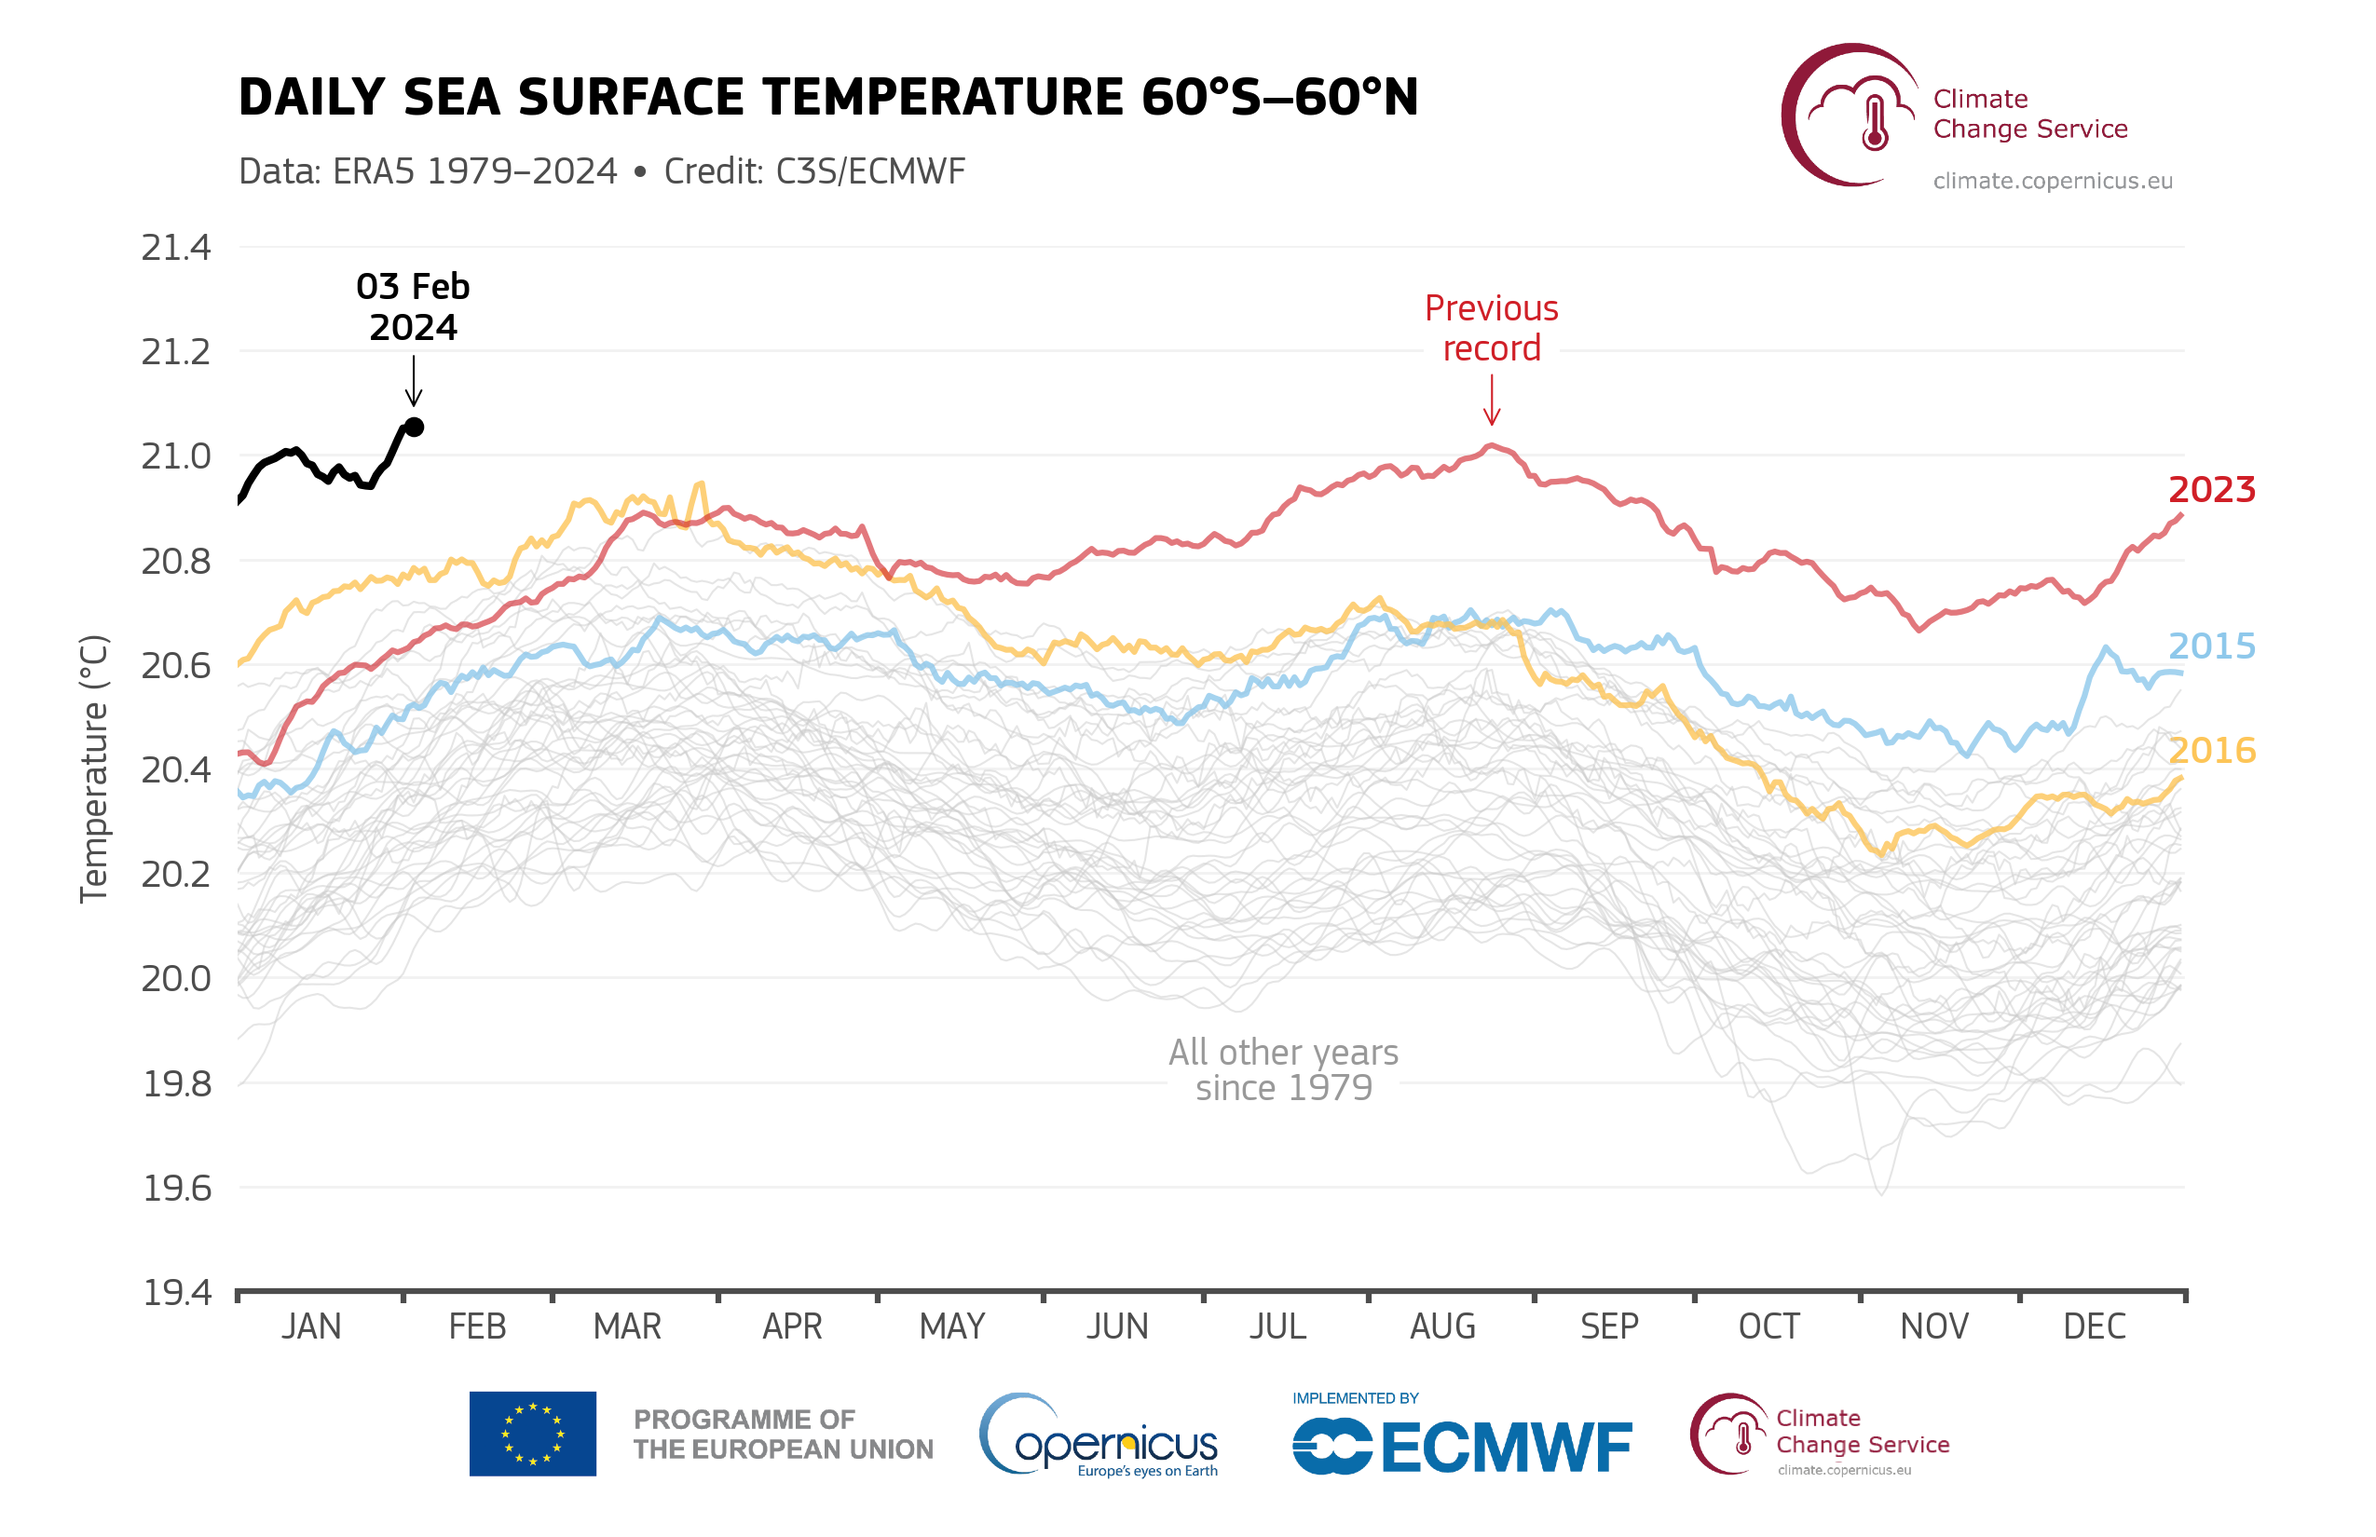
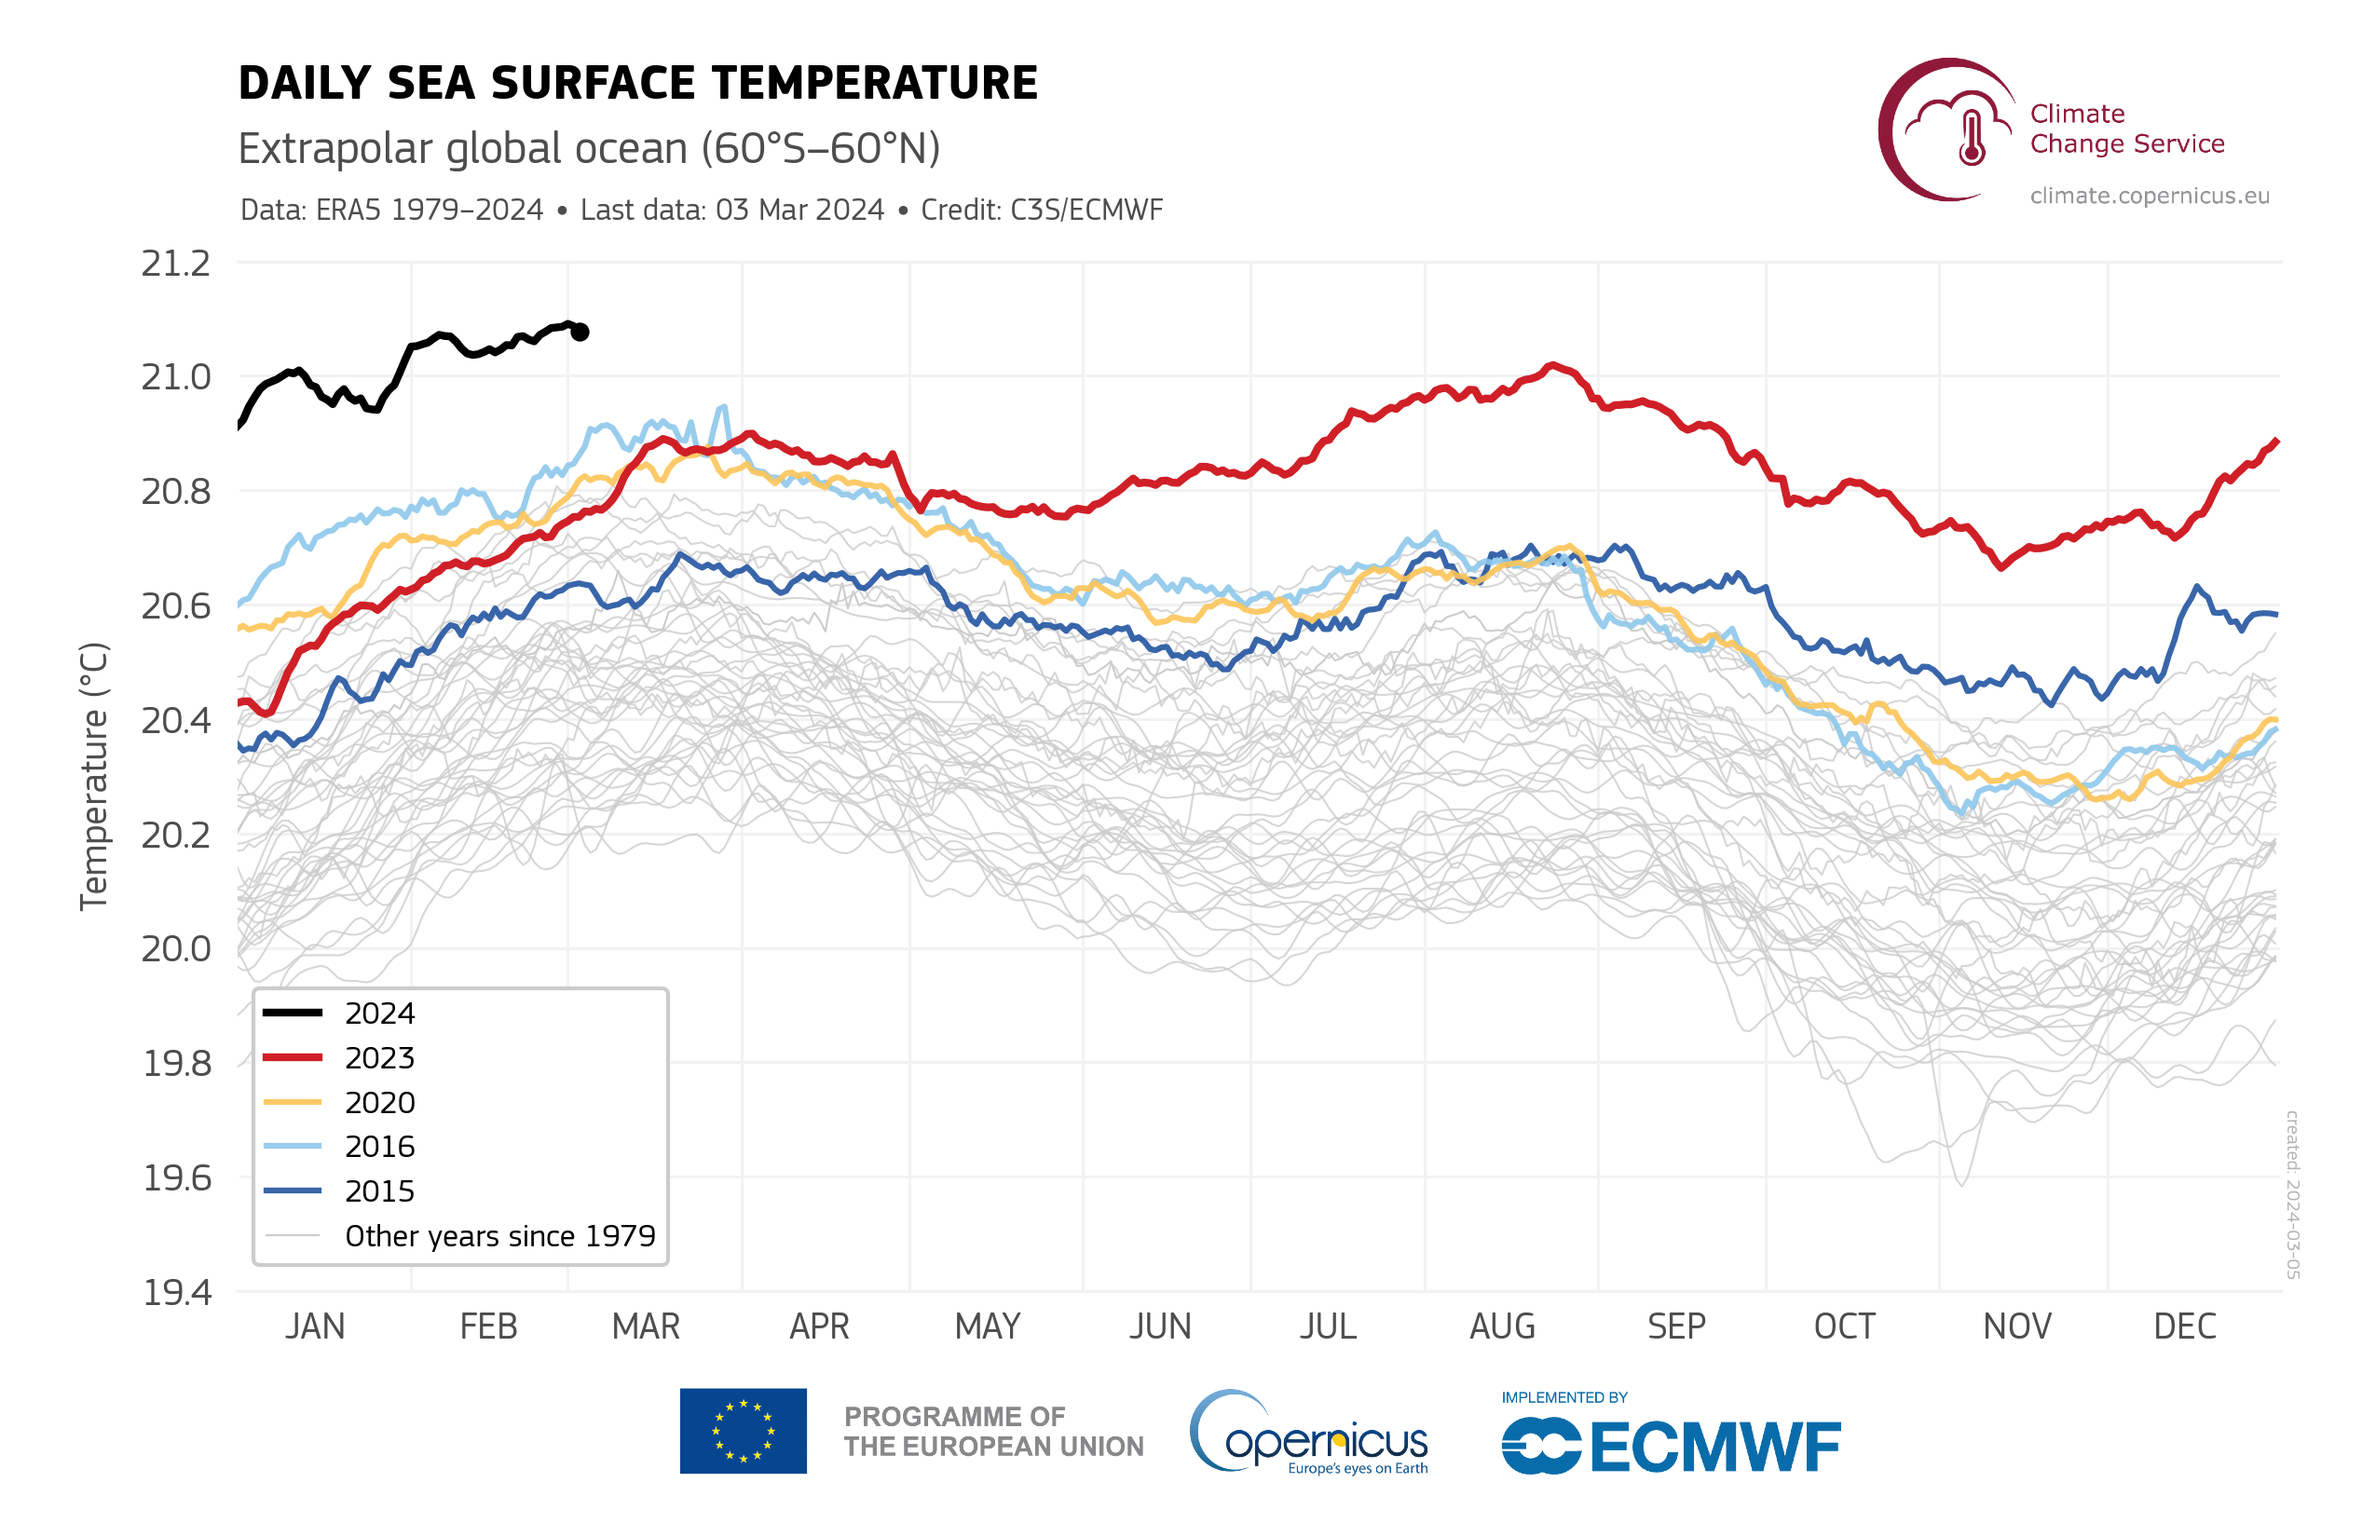
tipping update

diff --git a/content/post/tipping-point/index.md b/content/post/tipping-point/index.md
@@ -1,12 +1,12 @@
 ---
-title: 'Climate Risk at a Tipping Point?'
+title: 'Update: Climate Risk at a Tipping Point?'
 subtitle: 'Air Temperature, Sea Surface Temperature, and Tropical Storms'
 summary: "Air Temperature, Sea Surface Temperature, and Tropical Storms" 
 authors: ["Kim Kaivanto"]
 tags: [CAHM24]
 categories: []
-date: 2024-02-12T00:01:00+00:00
-lastmod: 2024-02-12T00:01:00+00:00
+date: 2024-03-18T00:01:00+00:00
+lastmod: 2024-03-18T00:01:00+00:00
 featured: false
 draft: false
 
@@ -30,7 +30,7 @@ projects: []
 
 
 ---
-**Air and Sea Surface Temperature (SST) records have been broken.**
+**Air and Sea Surface Temperature (SST) records have been broken.**[^1]
 
 #### Is this due to
 
@@ -38,21 +38,20 @@ projects: []
 2. **a mid-tail event within gradually accelerating climatic change?**
 3. **a typical event within rapidly accelerating (tipping-point) climate change?**
 
-According to [Copernicus Climate Change Service (C3S)](https://climate.copernicus.eu/), January 2024 
-was the warmest on record, pushing the 12-month mean global temperature (Feb 2023 -- Jan 2024) 
-to exceed the 1850-1900 pre-industrial average by more than 1.5°C.  (See summary 
-[here](https://climate.copernicus.eu/copernicus-2024-world-experienced-warmest-january-record).)
+According to [Copernicus Climate Change Service (C3S)](https://climate.copernicus.eu/copernicus-february-2024-was-globally-warmest-record-global-sea-surface-temperatures-record-high), 
+February 2024 was the warmest on record, bringing the total number of consecutive record-breaking globally hottest months to 9. 
+This pushed the 12-month mean global temperature (Mar 2023 -- Feb 2024) 
+to exceed the 1850-1900 pre-industrial average by 1.56°C. 
 
-In February, the daily Sea Surface Temperature (SST) for 60°S–60°N reached a new absolute record level. 
-The previous highest values were reached on the 23rd and 24th of August 2023.
+The February average global Sea Surface Temperature (SST) for 60°S–60°N reached a new absolute record level of 21.06°C. 
+The previous high was in August 2023.
 
 ![](sst.png  "**Figure 1.** Daily sea surface temperature (°C) averaged over the extra-polar global ocean (60°S–60°N) 
 for 2015 (blue), 2016 (yellow), 2023 (red), and 2024 (black line). All other years between 1979 and 2022 
 are shown with grey lines. Data source: ERA5. Credit: Copernicus Climate Change Service/ECMWF. [Download
-pdf version](https://climate.copernicus.eu/sites/default/files/custom-uploads/Page%20Uploads/2401%20CB/PR_Fig2_era5_daily_sst_60S-60N.pdf).")
-
+pdf version](https://climate.copernicus.eu/sites/default/files/custom-uploads/2402%20CB/PR_fig4_timeseries_era5_sst_daily_60S-60N_1979-2024.pdf).")
 According to the latest [ENSO update and prediction](https://www.cpc.ncep.noaa.gov/products/analysis_monitoring/enso_advisory/ensodisc.shtml) 
-by NOAA National Weather Service, "transition from El Niño to ENSO-neutral[^1] is likely by April-June 2024 (79%
+by NOAA National Weather Service, "transition from El Niño to ENSO-neutral[^2] is likely by April-June 2024 (79%
 chance), with increasing odds of La Niña developing in June-August 2024 (55% chance)."
 
 ![](ensoprobs.png "**Figure 2.** NOAA Climate Prediction Center Probabilistic El Niño Southern Oscillation (ENSO) Outlook (8 Feb 2024).")
@@ -103,15 +102,22 @@ If more than one theory is consistent with the observations, keep all of these t
 
 Current data are consistent with a radical tipping-point explantion, but not exclusively so. 
 
-Like Schrödinger's cat, we both are and are not at a tipping point in climate change. 
+Like Schrödinger's cat, we both are and are not at a tipping point in climate change.[^3] 
 
 
 
 
 <br>
 
-[^1]: "ENSO-neutral" refers to the El Niño Southern Oscillation (ENSO) being neither in the (warmer SST) "El Niño" state nor in the 
+[^1]: This post updates and replaces the original version dated Feb 12, 2024. 
+
+[^2]: "ENSO-neutral" refers to the El Niño Southern Oscillation (ENSO) being neither in the (warmer SST) "El Niño" state nor in the 
 (cooler SST) "La Niña" state, whereby the SST in the tropical eastern Pacific falls within +/- 0.5°C of the long-term average. 
+
+[^3]: Gavin Schmidt, director of NASA’s Goddard Institute for Space Studies is recently quoted in [The New Yorker](https://www.newyorker.com/news/daily-comment/why-is-the-sea-so-hot)
+as saying "We don't really know what is going on. ...The other thing that this could all be is, we are starting to see shifts in how the system responds... 
+...nothing in the prior data looked like 2023. Does that mean that the prior data are no longer predictive because the system has changed? 
+I can’t rule that out, and that would obviously be very concerning."
 
 <br>
  
